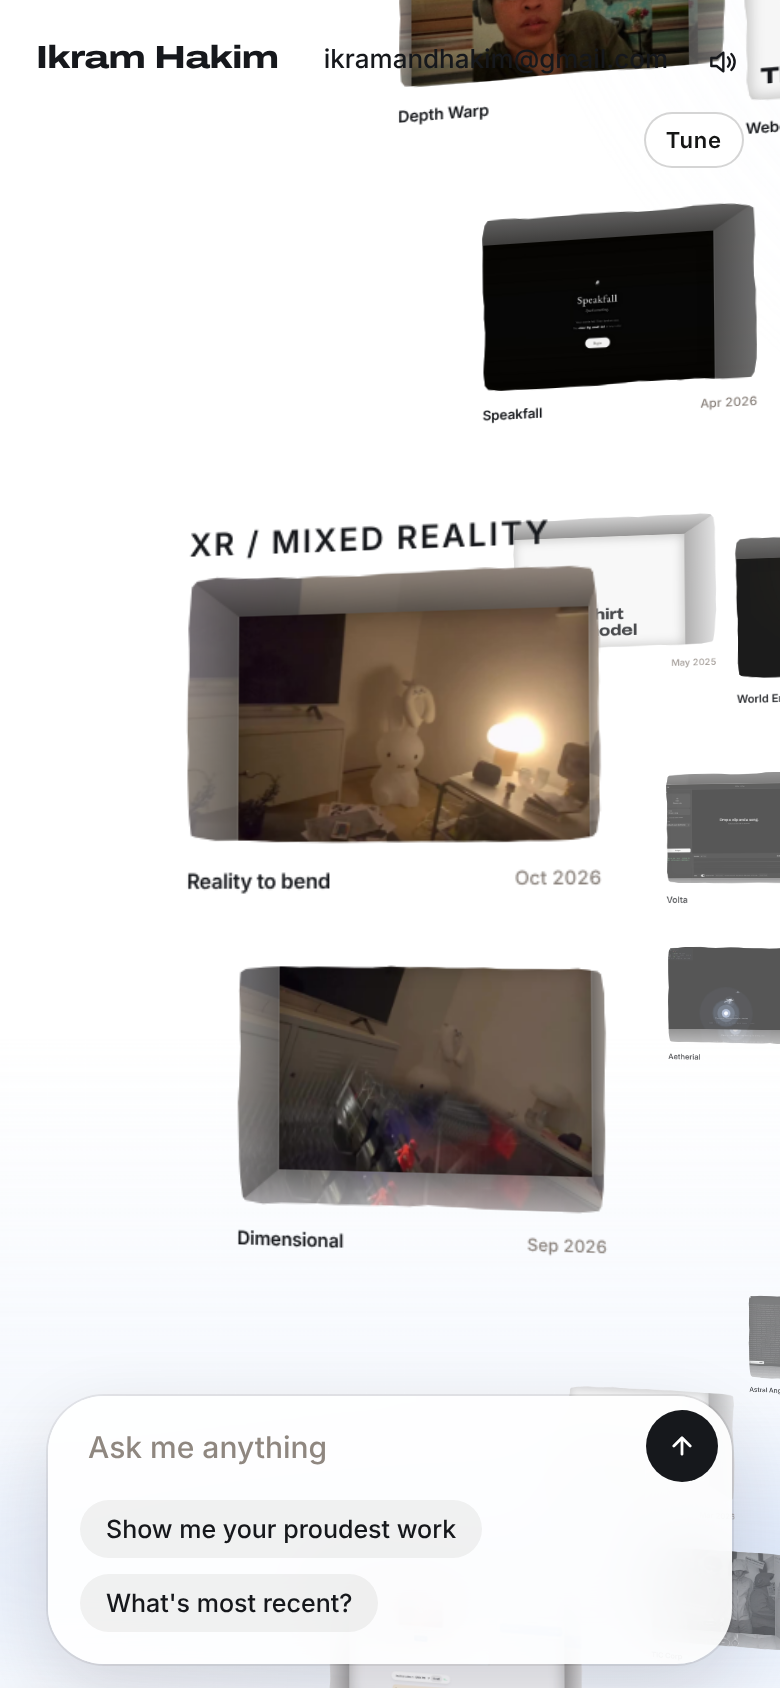
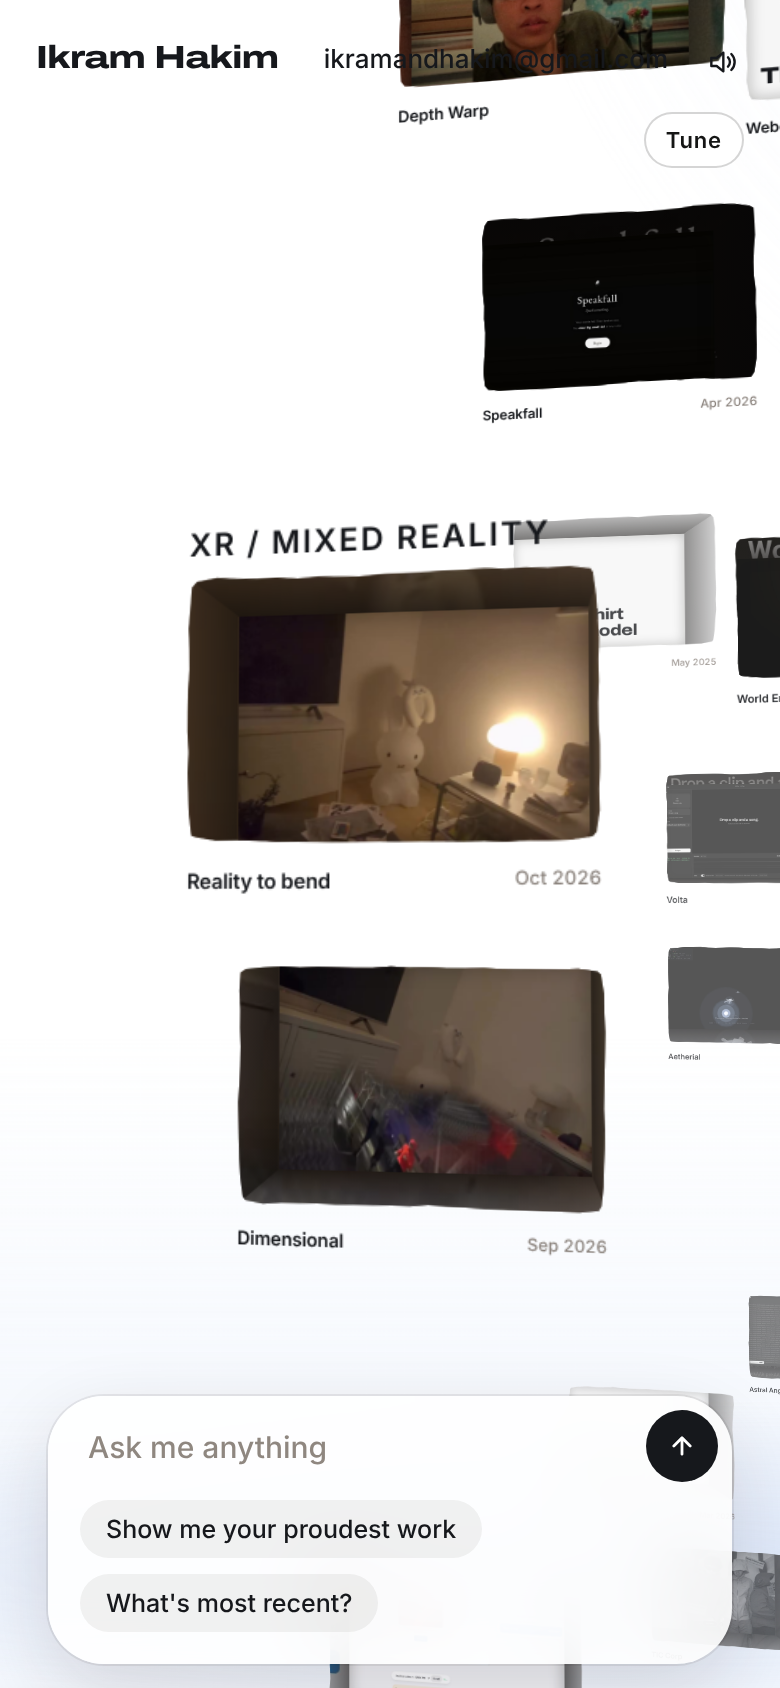
Drop the wall blur everywhere, darken the walls, fake the softness
No blur filter on any device. The wall picture is drawn over three times too
large so the browser's stretching softens it for free, under a dark wash. Wall
shading is deeper, darkest at the back. Logged in making-of.

Claude-Session: https://claude.ai/code/session_01TgBAFiAjJzLHXtm6PaUK1k

diff --git a/app/css/cards.css b/app/css/cards.css
@@ -103,34 +103,38 @@ html.is-lean .card.is-dim .card-in { filter: saturate(0.7); }
   pointer-events: none;
 }
 
-/* The walls' colour: the work itself, out of focus, spilling onto them. */
-.pic-glow { position: absolute; inset: -14%; }
-.pic-glow img { filter: blur(16px) saturate(1.25) brightness(1.08); }
-/* Phones: no blur. The blur is the costly part, so the wall colour is the
-   same picture held a little larger and faded, which is cheap to draw. */
-html.is-lean .pic-glow { inset: -6%; opacity: 0.5; }
-html.is-lean .pic-glow img { filter: none; }
-html.is-lean .card.is-muted .pic-glow img { filter: grayscale(1); }
+/* The walls' colour: the work itself, spilling onto them. No blur filter
+   anywhere (it is the costly part, and the same on every device). The softness
+   is faked: the picture is drawn more than three times too large, so the
+   browser's own stretching smooths it into broad soft colour, for free. A dark
+   wash over it keeps the walls quieter than the work. */
+.pic-glow { position: absolute; inset: -120%; }
+.pic-glow::after {
+  content: "";
+  position: absolute;
+  inset: 0;
+  background: rgba(10, 8, 6, 0.3);
+}
 
 /* Four inner walls, each a trapezoid from the opening to the back wall. Each
-   darkens as it goes back; the ceiling is the darkest and the floor catches
-   the light. */
+   darkens as it goes back, deepest in the corners where it meets the work; the
+   ceiling is the darkest and the floor catches a little light at its lip. */
 .pic-side { position: absolute; inset: 0; pointer-events: none; }
 .pic-side.t {
   clip-path: polygon(0 0, 100% 0, var(--R) var(--T), var(--L) var(--T));
-  background: linear-gradient(to bottom, rgba(10, 8, 6, 0.16) 0, rgba(10, 8, 6, 0.5) var(--T));
+  background: linear-gradient(to bottom, rgba(10, 8, 6, 0.3) 0, rgba(10, 8, 6, 0.66) var(--T));
 }
 .pic-side.b {
   clip-path: polygon(0 100%, 100% 100%, var(--R) var(--B), var(--L) var(--B));
-  background: linear-gradient(to top, rgba(255, 255, 255, 0.3) 0, rgba(10, 8, 6, 0.2) calc(100% - var(--B)));
+  background: linear-gradient(to top, rgba(255, 255, 255, 0.16) 0, rgba(10, 8, 6, 0.38) calc(100% - var(--B)));
 }
 .pic-side.l {
   clip-path: polygon(0 0, var(--L) var(--T), var(--L) var(--B), 0 100%);
-  background: linear-gradient(to right, rgba(10, 8, 6, 0.06) 0, rgba(10, 8, 6, 0.36) var(--L));
+  background: linear-gradient(to right, rgba(10, 8, 6, 0.16) 0, rgba(10, 8, 6, 0.54) var(--L));
 }
 .pic-side.r {
   clip-path: polygon(100% 0, var(--R) var(--T), var(--R) var(--B), 100% 100%);
-  background: linear-gradient(to left, rgba(10, 8, 6, 0.06) 0, rgba(10, 8, 6, 0.36) calc(100% - var(--R)));
+  background: linear-gradient(to left, rgba(10, 8, 6, 0.16) 0, rgba(10, 8, 6, 0.54) calc(100% - var(--R)));
 }
 
 /* The back wall: the work, a little smaller for being further away, with the
@@ -153,7 +157,6 @@ html.is-lean .card.is-muted .pic-glow img { filter: grayscale(1); }
 }
 
 .card.is-muted img { filter: grayscale(1); }
-.card.is-muted .pic-glow img { filter: grayscale(1) blur(16px) brightness(1.08); }
 
 /* No picture yet: the back wall says the work's one line, large. */
 .card.is-words .card-pic { background: color-mix(in srgb, var(--ink) 9%, var(--canvas)); }

diff --git a/making-of/LOG.md b/making-of/LOG.md
@@ -245,3 +245,13 @@ Now phones keep the walls' colour: the same picture held a little larger and
 faded, with no blur (the blur was the expensive part). Still in
 `captures/2026-11-15-windows/phone-walls.png`.
 
+## 2026-11-15 · no blur at all, darker walls
+"I think without blur is the way to go! Darken the depth area a bit, and we
+can make a fake light blur that's optimised and subtle."
+
+The blur filter is gone on every device. The softness is faked for free: the
+wall picture is drawn more than three times too large, so the browser's own
+stretching smooths it into broad colour. A dark wash sits over it and the wall
+shading is deeper, darkest where the walls meet the work, so the recess reads
+as shadowed depth and the work as the lit thing at the back.
+
